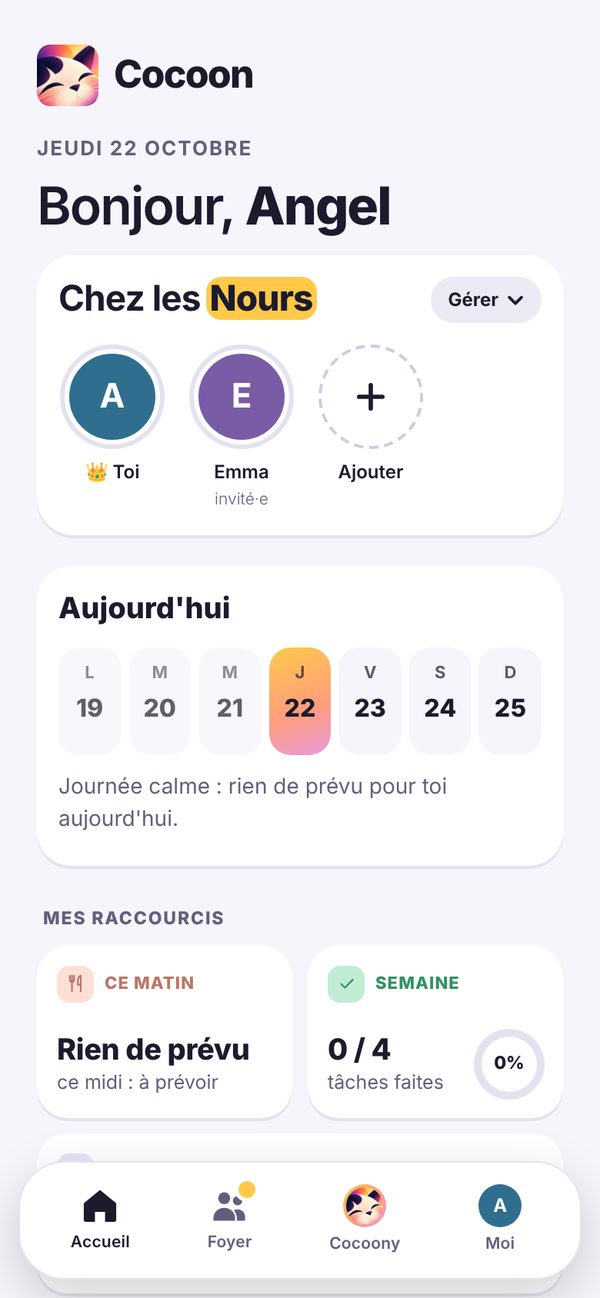
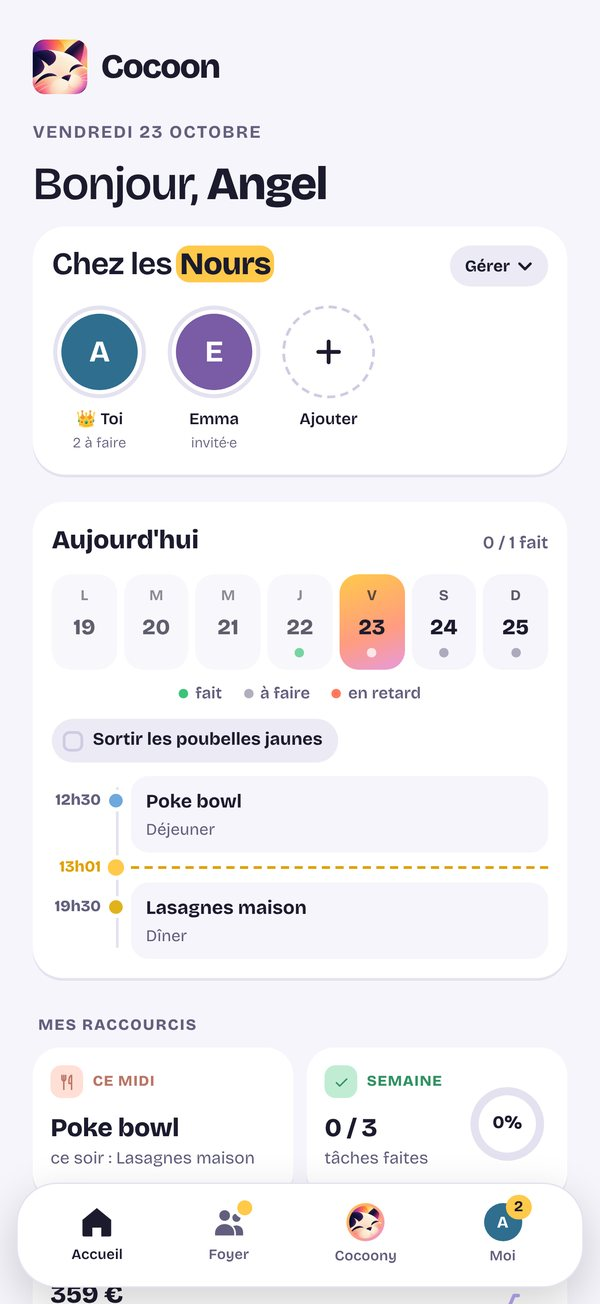
Site vitrine : haut de page en affiche dégradée, captures à jour (7 écrans), tarifs en deux affiches
Claude-Session: https://claude.ai/code/session_014PtC1bhXvDyL6jkTpmKN4j

diff --git a/presentation/contenu.html b/presentation/contenu.html
@@ -43,6 +43,20 @@ section{padding-block:56px}
 .btn.ghost{background:var(--surface);color:var(--ink);box-shadow:inset 0 0 0 2px var(--line)}
 .top .btn{min-height:42px;padding:10px 16px;font-size:15px}
 
+/* accroche : même affiche dégradée que les images App Store */
+.affiche{background:radial-gradient(110% 80% at 100% 0%,#FFD66B 0%,transparent 55%),linear-gradient(165deg,#FF9C80,#E2629B 55%,#8C5BD6);color:#fff;border-radius:0 0 40px 40px;overflow:hidden;position:relative}
+.affiche .top .brand b{color:#fff}
+.affiche .top .btn.ghost{background:rgba(255,255,255,.18);color:#fff;box-shadow:inset 0 0 0 2px rgba(255,255,255,.45)}
+.affiche .eyebrow{color:rgba(255,255,255,.85)}
+.affiche .lead{color:rgba(255,255,255,.9)}
+.affiche .btn.go{background:#fff;color:#C2417E;box-shadow:0 5px 0 rgba(0,0,0,.18)}
+.affiche .btn.ghost{background:rgba(255,255,255,.18);color:#fff;box-shadow:inset 0 0 0 2px rgba(255,255,255,.45)}
+.affiche .soon{color:rgba(255,255,255,.85)}
+.store{display:inline-flex;align-items:center;gap:10px;margin-top:18px;padding:9px 16px 9px 12px;border-radius:14px;background:#1C1B2E;color:#fff;text-decoration:none;font-weight:700;font-size:13px;line-height:1.15}
+.store b{display:block;font-size:17px}
+.store i{font-style:normal;font-size:22px}
+.cat-coin{position:absolute;width:96px;height:96px;border-radius:30px;box-shadow:0 14px 30px rgba(0,0,0,.25);right:max(16px,calc(50% - 520px));bottom:26px;transform:rotate(12deg)}
+@media (max-width:879px){.cat-coin{width:72px;height:72px;border-radius:22px;bottom:16px}}
 /* accroche */
 .hero{display:grid;grid-template-columns:minmax(0,1fr);gap:40px;align-items:center;padding-block:24px 56px}
 @media (min-width:880px){.hero{grid-template-columns:minmax(0,1.05fr) minmax(0,1fr)}}
@@ -53,7 +67,7 @@ section{padding-block:56px}
 .soon{margin-top:14px;font-size:13.5px;color:var(--muted)}
 .phones{position:relative;display:flex;justify-content:center;align-items:flex-end;gap:0;padding-block:8px 20px}
 .phone{width:min(46%,240px);border-radius:34px;padding:7px;background:#1C1B2E;box-shadow:0 30px 60px rgba(28,27,46,.28);flex:none}
-.phone img{display:block;width:100%;height:auto;border-radius:28px;aspect-ratio:390/844;object-fit:cover;object-position:top}
+.phone img{display:block;width:100%;height:auto;border-radius:28px;aspect-ratio:440/956;object-fit:cover;object-position:top}
 .phone.a{transform:rotate(-5deg) translateY(10px);margin-right:-22px;z-index:1}
 .phone.b{transform:rotate(4deg);z-index:2}
 @media (prefers-reduced-motion:no-preference){
@@ -92,6 +106,30 @@ section{padding-block:56px}
 .shot .phone{width:100%}
 .shot figcaption{font-size:14px;color:var(--muted);text-align:center}
 
+/* tarifs : deux affiches, comme la fenêtre Cocoon Plus de l'app */
+.duo{display:grid;grid-template-columns:minmax(0,1fr);border-radius:30px;overflow:hidden;box-shadow:0 20px 50px rgba(28,27,46,.16)}
+@media (min-width:880px){.duo{grid-template-columns:minmax(0,.9fr) minmax(0,1.1fr)}}
+.af{position:relative;padding:28px clamp(20px,4vw,40px) 30px;display:flex;flex-direction:column;gap:10px;min-width:0}
+.af .tg{align-self:flex-start;font-size:12px;font-weight:800;letter-spacing:.08em;padding:5px 11px;border-radius:99px}
+.af h3{font-size:clamp(28px,4vw,38px);line-height:1;letter-spacing:-.03em}
+.af .price b{font-size:34px}
+.af1{background:#EEEDF4;color:#3D3A55}.af1 .tg{background:#DCDAE6;color:#625F7E}.af1 .price span,.af1 p{color:#625F7E}
+.af1 .cat1{position:absolute;right:24px;top:26px;width:74px;height:74px;border-radius:22px;filter:grayscale(.85) opacity(.7)}
+.af1 .zz{position:absolute;right:20px;top:8px;font-weight:800;color:#9C99B3;letter-spacing:.1em}
+.af1 ul{margin:6px 0 0;padding:0;list-style:none;display:flex;flex-direction:column;gap:7px;font-size:15px}
+.af1 li::before{content:"✓ ";font-weight:800;color:#8D8AA3}
+.af2{color:#fff;background:radial-gradient(120% 80% at 100% 0%,#FFD66B 0%,transparent 55%),linear-gradient(160deg,#FF9C80,#E2629B 60%,#8C5BD6)}
+.af2 .tg{background:#fff;color:#C2417E}
+.af2 .price span{color:rgba(255,255,255,.88)}
+.af2 .st{position:absolute;right:24px;top:24px;font-weight:900;font-size:13px;background:#FFE14D;color:#1C1B2E;padding:6px 10px;border-radius:12px;transform:rotate(-8deg);box-shadow:0 4px 0 rgba(0,0,0,.15)}
+.rows{display:flex;flex-direction:column;gap:7px;margin-top:6px;max-width:420px}
+.rw{display:flex;align-items:center;gap:9px;background:rgba(255,255,255,.18);border-radius:14px;padding:9px 11px}
+.rw .e{flex:none;width:24px;text-align:center;font-size:18px}.rw .e img{width:24px;height:24px;border-radius:7px;display:block}
+.rw>span:not(.e){flex:1;font-weight:700;font-size:15px;text-align:left}
+.rw s{font-size:12.5px;opacity:.8;font-weight:700}
+.rw em{font-style:normal;font-weight:900;background:#fff;color:#C2417E;border-radius:99px;min-width:38px;text-align:center;padding:2px 9px;font-size:15px}
+.af2 .btn{align-self:flex-start;margin-top:12px;background:#fff;color:#C2417E;box-shadow:0 5px 0 rgba(0,0,0,.18)}
+.af2 .note{font-size:13px;color:rgba(255,255,255,.85)}
 /* tarifs */
 .plans{display:grid;grid-template-columns:repeat(auto-fit,minmax(260px,1fr));gap:14px;align-items:stretch}
 .plan{background:var(--surface);border-radius:26px;padding:24px;box-shadow:0 2px 0 var(--shadow);display:flex;flex-direction:column;gap:14px;min-width:0;position:relative}
@@ -119,6 +157,7 @@ section{padding-block:56px}
 footer{padding-block:28px 40px;font-size:13.5px;color:var(--muted);text-align:center}
 </style>
 
+<div class="affiche">
 <header class="w top">
   <a class="brand" href="https://brionutrition.github.io/Cocoon/"><img src="img/cocoon.png" alt=""><b>Cocoon</b></a>
   <a class="btn ghost" href="https://brionutrition.github.io/Cocoon/">Se connecter</a>
@@ -128,19 +167,22 @@ footer{padding-block:28px 40px;font-size:13.5px;color:var(--muted);text-align:ce
   <div class="w hero">
     <div>
       <p class="eyebrow">L'appli du foyer</p>
-      <h1 style="margin-top:12px">Ton foyer, <span class="fam">enfin serein.</span></h1>
+      <h1 style="margin-top:12px">Ton foyer,<br><span class="fam">enfin serein.</span></h1>
       <p class="lead">Tâches, courses, repas, agenda, budget et papiers, rangés au même endroit. Seul·e ou à plusieurs, animaux compris : chacun voit ce qu'il a à faire, et plus personne ne tient tout dans sa tête.</p>
       <div class="cta">
         <a class="btn go" href="https://brionutrition.github.io/Cocoon/">Créer mon foyer, c'est gratuit</a>
         <a class="btn ghost" href="#rubriques">Voir ce que ça fait</a>
       </div>
-      <p class="soon">Fonctionne dans le navigateur et s'installe sur l'écran d'accueil. App iPhone bientôt sur l'App Store.</p>
+      <span class="store" aria-label="L'app iPhone arrive bientôt sur l'App Store"><i aria-hidden="true">📱</i><span>Bientôt sur<b>l'App Store</b></span></span>
+      <p class="soon">En attendant, Cocoon marche dans le navigateur et s'installe sur l'écran d'accueil.</p>
     </div>
     <div class="phones" aria-hidden="true">
       <div class="phone a"><img src="img/accueil.jpg" alt=""></div>
       <div class="phone b"><img src="img/foyer.jpg" alt=""></div>
     </div>
   </div>
+  <img class="cat-coin" src="img/cocoon.png" alt="">
+</div>
 
   <section id="rubriques">
     <div class="w">
@@ -188,9 +230,13 @@ footer{padding-block:28px 40px;font-size:13.5px;color:var(--muted);text-align:ce
         <h2>Pensée pour le téléphone, du premier au dernier écran.</h2>
       </div>
       <div class="shots">
-        <figure class="shot"><div class="phone"><img src="img/accueil.jpg" alt="Accueil de Cocoon : bonjour, membres du foyer, la semaine et les raccourcis" loading="lazy"></div><figcaption>L'accueil : ta journée et ton foyer</figcaption></figure>
+        <figure class="shot"><div class="phone"><img src="img/accueil.jpg" alt="Accueil de Cocoon : bonjour, membres du foyer, la journée et les raccourcis" loading="lazy"></div><figcaption>L'accueil : ta journée et ton foyer</figcaption></figure>
         <figure class="shot"><div class="phone"><img src="img/foyer.jpg" alt="Le foyer : tâches, courses, repas, agenda, budget, papiers, maison" loading="lazy"></div><figcaption>Le foyer : toutes les rubriques</figcaption></figure>
-        <figure class="shot"><div class="phone"><img src="img/cocoony.jpg" alt="Cocoony fait le point sur le foyer" loading="lazy"></div><figcaption>Cocoony : le point en une phrase</figcaption></figure>
+        <figure class="shot"><div class="phone"><img src="img/taches.jpg" alt="Les tâches du foyer, avec qui s'en occupe et pour quand" loading="lazy"></div><figcaption>Les tâches : chacun son tour</figcaption></figure>
+        <figure class="shot"><div class="phone"><img src="img/repas.jpg" alt="Les repas : ce midi, idées avec le frigo, la semaine" loading="lazy"></div><figcaption>Les repas : la semaine en un coup d'œil</figcaption></figure>
+        <figure class="shot"><div class="phone"><img src="img/agenda.jpg" alt="L'agenda du foyer avec l'anniversaire d'Emma et les rendez-vous" loading="lazy"></div><figcaption>L'agenda : rendez-vous et événements</figcaption></figure>
+        <figure class="shot"><div class="phone"><img src="img/budget.jpg" alt="Le budget du foyer : dépenses du mois et qui doit quoi" loading="lazy"></div><figcaption>Le budget : et qui doit quoi</figcaption></figure>
+        <figure class="shot"><div class="phone"><img src="img/cocoony.jpg" alt="Cocoony fait le point sur la semaine du foyer" loading="lazy"></div><figcaption>Cocoony : le point de la semaine</figcaption></figure>
       </div>
     </div>
   </section>
@@ -202,30 +248,30 @@ footer{padding-block:28px 40px;font-size:13.5px;color:var(--muted);text-align:ce
         <h2>Cocoon Essentiel pour le quotidien. Cocoon Plus pour aller plus loin.</h2>
         <p class="lead">Un seul abonnement pour tout le foyer, sans engagement.</p>
       </div>
-      <div class="plans">
-        <div class="plan">
-          <h3>Cocoon Essentiel</h3>
+      <div class="duo">
+        <div class="af af1">
+          <span class="tg">COCOON ESSENTIEL</span><img class="cat1" src="img/cocoon.png" alt=""><span class="zz" aria-hidden="true">z z</span>
+          <h3>Le quotidien,<br>bien rangé</h3>
           <div class="price"><b>0 €</b><span>pour toujours</span></div>
           <ul>
             <li>Tâches, courses, repas, agenda, maison, événements</li>
-            <li>Budget partagé et ses graphiques</li>
-            <li>Thèmes et couleurs</li>
-            <li>25 papiers, 5 papiers lus en photo par mois</li>
-            <li>20 questions à Cocoony par mois</li>
+            <li>Budget partagé et ses graphiques, thèmes et couleurs</li>
+            <li>5 photos lues, 20 questions à Cocoony et 25 papiers</li>
           </ul>
         </div>
-        <div class="plan pm">
-          <span class="tag">1 mois offert</span>
-          <h3>Cocoon Plus</h3>
+        <div class="af af2">
+          <span class="tg">COCOON PLUS</span><span class="st" aria-hidden="true">ILLIMITÉ !</span>
+          <h3>Ton foyer<br>en mode turbo</h3>
           <div class="price"><b>3,99 €</b><span>par mois, ou 39,99 € par an (2 mois offerts)</span></div>
-          <ul>
-            <li>Papiers lus en photo sans limite : titre, date, montant</li>
-            <li>Cocoony intelligent sans limite</li>
-            <li>Papiers illimités, photos et PDF compris</li>
-            <li>Sauvegarde de tout le foyer en un clic</li>
-            <li>Plusieurs foyers : vacances, garde alternée</li>
-          </ul>
-          <p class="note">Les abonnements ouvrent bientôt.</p>
+          <div class="rows" role="list">
+            <div class="rw" role="listitem"><span class="e" aria-hidden="true">📸</span><span>Photos de papiers lues</span><s>5</s><em>∞</em></div>
+            <div class="rw" role="listitem"><span class="e" aria-hidden="true"><img src="img/cocoon.png" alt=""></span><span>Cocoony malin</span><s>20</s><em>∞</em></div>
+            <div class="rw" role="listitem"><span class="e" aria-hidden="true">📄</span><span>Papiers rangés</span><s>25</s><em>∞</em></div>
+            <div class="rw" role="listitem"><span class="e" aria-hidden="true">💾</span><span>Sauvegarde avec les fichiers</span><em>✓</em></div>
+            <div class="rw" role="listitem"><span class="e" aria-hidden="true">🏡</span><span>Plusieurs foyers</span><s>1</s><em>2+</em></div>
+          </div>
+          <a class="btn" href="https://brionutrition.github.io/Cocoon/">Essayer 1 mois gratuit</a>
+          <p class="note">Un seul abonnement pour tout le foyer. Les abonnements ouvrent bientôt.</p>
         </div>
       </div>
     </div>

diff --git a/presentation/index.html b/presentation/index.html
@@ -44,6 +44,20 @@ section{padding-block:56px}
 .btn.ghost{background:var(--surface);color:var(--ink);box-shadow:inset 0 0 0 2px var(--line)}
 .top .btn{min-height:42px;padding:10px 16px;font-size:15px}
 
+/* accroche : même affiche dégradée que les images App Store */
+.affiche{background:radial-gradient(110% 80% at 100% 0%,#FFD66B 0%,transparent 55%),linear-gradient(165deg,#FF9C80,#E2629B 55%,#8C5BD6);color:#fff;border-radius:0 0 40px 40px;overflow:hidden;position:relative}
+.affiche .top .brand b{color:#fff}
+.affiche .top .btn.ghost{background:rgba(255,255,255,.18);color:#fff;box-shadow:inset 0 0 0 2px rgba(255,255,255,.45)}
+.affiche .eyebrow{color:rgba(255,255,255,.85)}
+.affiche .lead{color:rgba(255,255,255,.9)}
+.affiche .btn.go{background:#fff;color:#C2417E;box-shadow:0 5px 0 rgba(0,0,0,.18)}
+.affiche .btn.ghost{background:rgba(255,255,255,.18);color:#fff;box-shadow:inset 0 0 0 2px rgba(255,255,255,.45)}
+.affiche .soon{color:rgba(255,255,255,.85)}
+.store{display:inline-flex;align-items:center;gap:10px;margin-top:18px;padding:9px 16px 9px 12px;border-radius:14px;background:#1C1B2E;color:#fff;text-decoration:none;font-weight:700;font-size:13px;line-height:1.15}
+.store b{display:block;font-size:17px}
+.store i{font-style:normal;font-size:22px}
+.cat-coin{position:absolute;width:96px;height:96px;border-radius:30px;box-shadow:0 14px 30px rgba(0,0,0,.25);right:max(16px,calc(50% - 520px));bottom:26px;transform:rotate(12deg)}
+@media (max-width:879px){.cat-coin{width:72px;height:72px;border-radius:22px;bottom:16px}}
 /* accroche */
 .hero{display:grid;grid-template-columns:minmax(0,1fr);gap:40px;align-items:center;padding-block:24px 56px}
 @media (min-width:880px){.hero{grid-template-columns:minmax(0,1.05fr) minmax(0,1fr)}}
@@ -54,7 +68,7 @@ section{padding-block:56px}
 .soon{margin-top:14px;font-size:13.5px;color:var(--muted)}
 .phones{position:relative;display:flex;justify-content:center;align-items:flex-end;gap:0;padding-block:8px 20px}
 .phone{width:min(46%,240px);border-radius:34px;padding:7px;background:#1C1B2E;box-shadow:0 30px 60px rgba(28,27,46,.28);flex:none}
-.phone img{display:block;width:100%;height:auto;border-radius:28px;aspect-ratio:390/844;object-fit:cover;object-position:top}
+.phone img{display:block;width:100%;height:auto;border-radius:28px;aspect-ratio:440/956;object-fit:cover;object-position:top}
 .phone.a{transform:rotate(-5deg) translateY(10px);margin-right:-22px;z-index:1}
 .phone.b{transform:rotate(4deg);z-index:2}
 @media (prefers-reduced-motion:no-preference){
@@ -93,6 +107,30 @@ section{padding-block:56px}
 .shot .phone{width:100%}
 .shot figcaption{font-size:14px;color:var(--muted);text-align:center}
 
+/* tarifs : deux affiches, comme la fenêtre Cocoon Plus de l'app */
+.duo{display:grid;grid-template-columns:minmax(0,1fr);border-radius:30px;overflow:hidden;box-shadow:0 20px 50px rgba(28,27,46,.16)}
+@media (min-width:880px){.duo{grid-template-columns:minmax(0,.9fr) minmax(0,1.1fr)}}
+.af{position:relative;padding:28px clamp(20px,4vw,40px) 30px;display:flex;flex-direction:column;gap:10px;min-width:0}
+.af .tg{align-self:flex-start;font-size:12px;font-weight:800;letter-spacing:.08em;padding:5px 11px;border-radius:99px}
+.af h3{font-size:clamp(28px,4vw,38px);line-height:1;letter-spacing:-.03em}
+.af .price b{font-size:34px}
+.af1{background:#EEEDF4;color:#3D3A55}.af1 .tg{background:#DCDAE6;color:#625F7E}.af1 .price span,.af1 p{color:#625F7E}
+.af1 .cat1{position:absolute;right:24px;top:26px;width:74px;height:74px;border-radius:22px;filter:grayscale(.85) opacity(.7)}
+.af1 .zz{position:absolute;right:20px;top:8px;font-weight:800;color:#9C99B3;letter-spacing:.1em}
+.af1 ul{margin:6px 0 0;padding:0;list-style:none;display:flex;flex-direction:column;gap:7px;font-size:15px}
+.af1 li::before{content:"✓ ";font-weight:800;color:#8D8AA3}
+.af2{color:#fff;background:radial-gradient(120% 80% at 100% 0%,#FFD66B 0%,transparent 55%),linear-gradient(160deg,#FF9C80,#E2629B 60%,#8C5BD6)}
+.af2 .tg{background:#fff;color:#C2417E}
+.af2 .price span{color:rgba(255,255,255,.88)}
+.af2 .st{position:absolute;right:24px;top:24px;font-weight:900;font-size:13px;background:#FFE14D;color:#1C1B2E;padding:6px 10px;border-radius:12px;transform:rotate(-8deg);box-shadow:0 4px 0 rgba(0,0,0,.15)}
+.rows{display:flex;flex-direction:column;gap:7px;margin-top:6px;max-width:420px}
+.rw{display:flex;align-items:center;gap:9px;background:rgba(255,255,255,.18);border-radius:14px;padding:9px 11px}
+.rw .e{flex:none;width:24px;text-align:center;font-size:18px}.rw .e img{width:24px;height:24px;border-radius:7px;display:block}
+.rw>span:not(.e){flex:1;font-weight:700;font-size:15px;text-align:left}
+.rw s{font-size:12.5px;opacity:.8;font-weight:700}
+.rw em{font-style:normal;font-weight:900;background:#fff;color:#C2417E;border-radius:99px;min-width:38px;text-align:center;padding:2px 9px;font-size:15px}
+.af2 .btn{align-self:flex-start;margin-top:12px;background:#fff;color:#C2417E;box-shadow:0 5px 0 rgba(0,0,0,.18)}
+.af2 .note{font-size:13px;color:rgba(255,255,255,.85)}
 /* tarifs */
 .plans{display:grid;grid-template-columns:repeat(auto-fit,minmax(260px,1fr));gap:14px;align-items:stretch}
 .plan{background:var(--surface);border-radius:26px;padding:24px;box-shadow:0 2px 0 var(--shadow);display:flex;flex-direction:column;gap:14px;min-width:0;position:relative}
@@ -120,6 +158,7 @@ section{padding-block:56px}
 footer{padding-block:28px 40px;font-size:13.5px;color:var(--muted);text-align:center}
 </style>
 
+<div class="affiche">
 <header class="w top">
   <a class="brand" href="https://brionutrition.github.io/Cocoon/"><img src="img/cocoon.png" alt=""><b>Cocoon</b></a>
   <a class="btn ghost" href="https://brionutrition.github.io/Cocoon/">Se connecter</a>
@@ -129,19 +168,22 @@ footer{padding-block:28px 40px;font-size:13.5px;color:var(--muted);text-align:ce
   <div class="w hero">
     <div>
       <p class="eyebrow">L'appli du foyer</p>
-      <h1 style="margin-top:12px">Ton foyer, <span class="fam">enfin serein.</span></h1>
+      <h1 style="margin-top:12px">Ton foyer,<br><span class="fam">enfin serein.</span></h1>
       <p class="lead">Tâches, courses, repas, agenda, budget et papiers, rangés au même endroit. Seul·e ou à plusieurs, animaux compris : chacun voit ce qu'il a à faire, et plus personne ne tient tout dans sa tête.</p>
       <div class="cta">
         <a class="btn go" href="https://brionutrition.github.io/Cocoon/">Créer mon foyer, c'est gratuit</a>
         <a class="btn ghost" href="#rubriques">Voir ce que ça fait</a>
       </div>
-      <p class="soon">Fonctionne dans le navigateur et s'installe sur l'écran d'accueil. App iPhone bientôt sur l'App Store.</p>
+      <span class="store" aria-label="L'app iPhone arrive bientôt sur l'App Store"><i aria-hidden="true">📱</i><span>Bientôt sur<b>l'App Store</b></span></span>
+      <p class="soon">En attendant, Cocoon marche dans le navigateur et s'installe sur l'écran d'accueil.</p>
     </div>
     <div class="phones" aria-hidden="true">
       <div class="phone a"><img src="img/accueil.jpg" alt=""></div>
       <div class="phone b"><img src="img/foyer.jpg" alt=""></div>
     </div>
   </div>
+  <img class="cat-coin" src="img/cocoon.png" alt="">
+</div>
 
   <section id="rubriques">
     <div class="w">
@@ -189,9 +231,13 @@ footer{padding-block:28px 40px;font-size:13.5px;color:var(--muted);text-align:ce
         <h2>Pensée pour le téléphone, du premier au dernier écran.</h2>
       </div>
       <div class="shots">
-        <figure class="shot"><div class="phone"><img src="img/accueil.jpg" alt="Accueil de Cocoon : bonjour, membres du foyer, la semaine et les raccourcis" loading="lazy"></div><figcaption>L'accueil : ta journée et ton foyer</figcaption></figure>
+        <figure class="shot"><div class="phone"><img src="img/accueil.jpg" alt="Accueil de Cocoon : bonjour, membres du foyer, la journée et les raccourcis" loading="lazy"></div><figcaption>L'accueil : ta journée et ton foyer</figcaption></figure>
         <figure class="shot"><div class="phone"><img src="img/foyer.jpg" alt="Le foyer : tâches, courses, repas, agenda, budget, papiers, maison" loading="lazy"></div><figcaption>Le foyer : toutes les rubriques</figcaption></figure>
-        <figure class="shot"><div class="phone"><img src="img/cocoony.jpg" alt="Cocoony fait le point sur le foyer" loading="lazy"></div><figcaption>Cocoony : le point en une phrase</figcaption></figure>
+        <figure class="shot"><div class="phone"><img src="img/taches.jpg" alt="Les tâches du foyer, avec qui s'en occupe et pour quand" loading="lazy"></div><figcaption>Les tâches : chacun son tour</figcaption></figure>
+        <figure class="shot"><div class="phone"><img src="img/repas.jpg" alt="Les repas : ce midi, idées avec le frigo, la semaine" loading="lazy"></div><figcaption>Les repas : la semaine en un coup d'œil</figcaption></figure>
+        <figure class="shot"><div class="phone"><img src="img/agenda.jpg" alt="L'agenda du foyer avec l'anniversaire d'Emma et les rendez-vous" loading="lazy"></div><figcaption>L'agenda : rendez-vous et événements</figcaption></figure>
+        <figure class="shot"><div class="phone"><img src="img/budget.jpg" alt="Le budget du foyer : dépenses du mois et qui doit quoi" loading="lazy"></div><figcaption>Le budget : et qui doit quoi</figcaption></figure>
+        <figure class="shot"><div class="phone"><img src="img/cocoony.jpg" alt="Cocoony fait le point sur la semaine du foyer" loading="lazy"></div><figcaption>Cocoony : le point de la semaine</figcaption></figure>
       </div>
     </div>
   </section>
@@ -203,30 +249,30 @@ footer{padding-block:28px 40px;font-size:13.5px;color:var(--muted);text-align:ce
         <h2>Cocoon Essentiel pour le quotidien. Cocoon Plus pour aller plus loin.</h2>
         <p class="lead">Un seul abonnement pour tout le foyer, sans engagement.</p>
       </div>
-      <div class="plans">
-        <div class="plan">
-          <h3>Cocoon Essentiel</h3>
+      <div class="duo">
+        <div class="af af1">
+          <span class="tg">COCOON ESSENTIEL</span><img class="cat1" src="img/cocoon.png" alt=""><span class="zz" aria-hidden="true">z z</span>
+          <h3>Le quotidien,<br>bien rangé</h3>
           <div class="price"><b>0 €</b><span>pour toujours</span></div>
           <ul>
             <li>Tâches, courses, repas, agenda, maison, événements</li>
-            <li>Budget partagé et ses graphiques</li>
-            <li>Thèmes et couleurs</li>
-            <li>25 papiers, 5 papiers lus en photo par mois</li>
-            <li>20 questions à Cocoony par mois</li>
+            <li>Budget partagé et ses graphiques, thèmes et couleurs</li>
+            <li>5 photos lues, 20 questions à Cocoony et 25 papiers</li>
           </ul>
         </div>
-        <div class="plan pm">
-          <span class="tag">1 mois offert</span>
-          <h3>Cocoon Plus</h3>
+        <div class="af af2">
+          <span class="tg">COCOON PLUS</span><span class="st" aria-hidden="true">ILLIMITÉ !</span>
+          <h3>Ton foyer<br>en mode turbo</h3>
           <div class="price"><b>3,99 €</b><span>par mois, ou 39,99 € par an (2 mois offerts)</span></div>
-          <ul>
-            <li>Papiers lus en photo sans limite : titre, date, montant</li>
-            <li>Cocoony intelligent sans limite</li>
-            <li>Papiers illimités, photos et PDF compris</li>
-            <li>Sauvegarde de tout le foyer en un clic</li>
-            <li>Plusieurs foyers : vacances, garde alternée</li>
-          </ul>
-          <p class="note">Les abonnements ouvrent bientôt.</p>
+          <div class="rows" role="list">
+            <div class="rw" role="listitem"><span class="e" aria-hidden="true">📸</span><span>Photos de papiers lues</span><s>5</s><em>∞</em></div>
+            <div class="rw" role="listitem"><span class="e" aria-hidden="true"><img src="img/cocoon.png" alt=""></span><span>Cocoony malin</span><s>20</s><em>∞</em></div>
+            <div class="rw" role="listitem"><span class="e" aria-hidden="true">📄</span><span>Papiers rangés</span><s>25</s><em>∞</em></div>
+            <div class="rw" role="listitem"><span class="e" aria-hidden="true">💾</span><span>Sauvegarde avec les fichiers</span><em>✓</em></div>
+            <div class="rw" role="listitem"><span class="e" aria-hidden="true">🏡</span><span>Plusieurs foyers</span><s>1</s><em>2+</em></div>
+          </div>
+          <a class="btn" href="https://brionutrition.github.io/Cocoon/">Essayer 1 mois gratuit</a>
+          <p class="note">Un seul abonnement pour tout le foyer. Les abonnements ouvrent bientôt.</p>
         </div>
       </div>
     </div>

diff --git a/index.html b/index.html
@@ -53,7 +53,7 @@ html[data-theme="light"] #cxIntro{background:#F6F5FB!important}html[data-theme="
 <link rel="preconnect" href="https://fonts.googleapis.com">
 <link rel="preconnect" href="https://fonts.gstatic.com" crossorigin>
 <link rel="stylesheet" href="https://fonts.googleapis.com/css2?family=Bricolage+Grotesque:opsz,wght@12..96,300..800&family=Fredoka:wdth,wght@75..125,300..700&display=swap">
-<script>window.COCOON_BUILD="22/10 23:07";</script>
+<script>window.COCOON_BUILD="23/10 15:06";</script>
 <script src="config.js"></script>
 <script id="sbjs" async src="https://cdn.jsdelivr.net/npm/@supabase/supabase-js@2.45.4/dist/umd/supabase.js"></script>
 <script src="cocoon-runtime.js"></script>

diff --git a/CLAUDE.md b/CLAUDE.md
@@ -116,6 +116,9 @@ Catégories de tâches perso : `CAT[id]` avec `perso:true`, retrouvées via `cat
   `outils/appstore/raw/`) puis `python3 outils/appstore/affiches.py` (titres dans `PAGES`).
 - Page de présentation : `presentation/contenu.html` (à modifier, publiable tel quel en artefact, images dans `presentation/img/`)
   → `presentation/index.html` fabriqué par `construire.sh` ; en ligne sur https://brionutrition.github.io/Cocoon/presentation/.
+  Refonte du 23 oct. : haut de page en « affiche dégradée » (comme l'App Store, Cocoony en coin, pastille « Bientôt sur l'App Store »),
+  carrousel de 7 écrans, tarifs en « deux affiches » comme dans l'app. Images `presentation/img/*.jpg` = captures de
+  `outils/appstore/raw/` réduites à 600 px de large.
 - Prochaines idées : notifications natives (APNs), paiement Premium, test Android, animations du personnage (format Lottie ou Rive, une animation par humeur, à mettre dans `outils/src/anim/`).
 - À faire côté Angel : redéployer `cocoon-push`, coller les modèles d'e-mail, vérifier OTP à 6 chiffres, brancher Brevo (codeEmail).
 - Fenêtre ou feuille du bas ouverte → `html.nav-off` (`navOffNow`/`navOffWatch`) : la barre d'onglets descend hors de l'écran (sans fondu,
